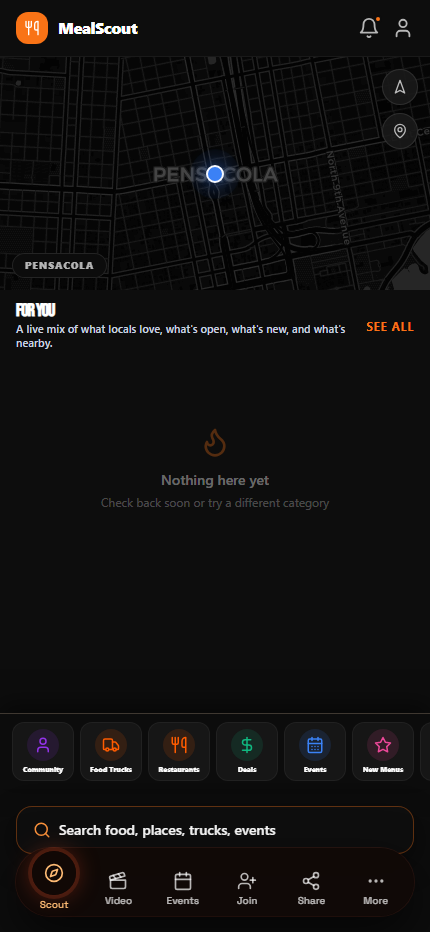
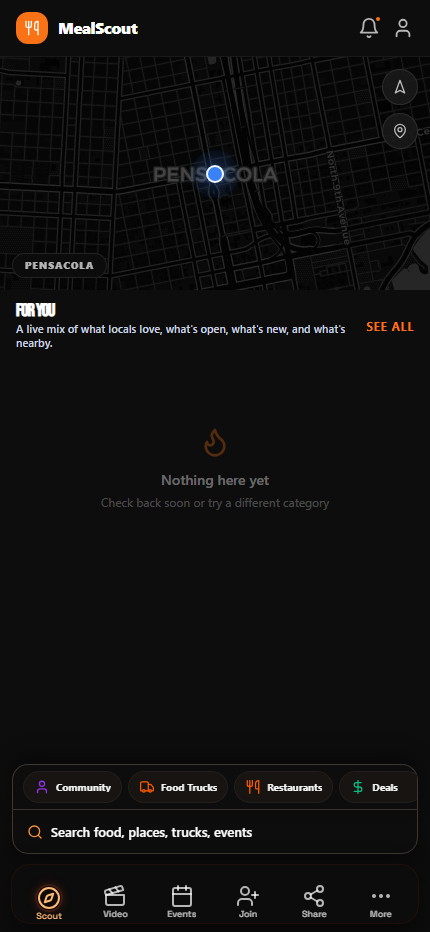
Align scout dock and global nav as one bottom control system

diff --git a/client/src/pages/scout-prototype.tsx b/client/src/pages/scout-prototype.tsx
@@ -219,7 +219,7 @@ export default function ScoutPrototype() {
   const [locationName, setLocationName] = useState("Pensacola");
   const [savedIds, setSavedIds] = useState<Set<string>>(new Set());
   const GLOBAL_NAV_HEIGHT = 78;
-  const SCOUT_SCENE_RAIL_HEIGHT = 48;
+  const SCOUT_SCENE_RAIL_HEIGHT = 50;
   const SCOUT_SEARCH_DOCK_HEIGHT = 46;
   const SCOUT_DOCK_GAP = 6;
   const scoutDockBottom = `calc(env(safe-area-inset-bottom) + ${GLOBAL_NAV_HEIGHT}px)`;
@@ -552,7 +552,7 @@ export default function ScoutPrototype() {
       {/* ── Unified Scout bottom control dock ── */}
       <div className="fixed inset-x-0 z-[1000] pointer-events-none" style={{ bottom: scoutDockBottom }}>
         <div className="mx-auto w-full max-w-[480px] px-3 pointer-events-auto">
-          <div className="rounded-t-2xl border border-b-0 border-white/8 bg-[#0d0d0d]/95 backdrop-blur-xl shadow-[0_-8px_24px_rgba(0,0,0,0.5)]">
+          <div className="rounded-t-2xl border border-b-0 border-white/6 bg-[#0f0d0b]/92 backdrop-blur-2xl shadow-[0_-8px_20px_rgba(0,0,0,0.42)]">
             <div className="flex gap-1.5 overflow-x-auto no-scrollbar px-2.5 py-1.5">
               {EXPLORE_TILES.map(tile => {
                 const count = tileCounts[tile.id as keyof typeof tileCounts] || tile.count;
@@ -560,10 +560,10 @@ export default function ScoutPrototype() {
                   <button
                     key={tile.id}
                     onClick={() => setActiveScene(tile.id)}
-                    className={`shrink-0 inline-flex items-center gap-1.5 rounded-full px-2 py-1 border transition-all duration-200 min-w-[76px] h-8 ${
+                    className={`shrink-0 inline-flex items-center gap-1.5 rounded-full px-2.5 py-1 border transition-all duration-200 min-w-[84px] h-8 ${
                       activeScene === tile.id
-                        ? "bg-[#1e1e1e] border-orange-500/45"
-                        : "bg-[#161616] border-white/5 hover:border-orange-500/20"
+                        ? "bg-[#1f1a15] border-orange-500/35 text-orange-200"
+                        : "bg-[#171412] border-white/5 hover:border-orange-500/18"
                     }`}
                   >
                     <div className="w-4 h-4 flex items-center justify-center shrink-0" style={{ color: tile.color }}>
@@ -579,7 +579,7 @@ export default function ScoutPrototype() {
           <button
             type="button"
             onClick={() => navigate("/search")}
-            className="mt-0 flex h-[46px] w-full items-center gap-2 rounded-b-2xl border border-orange-500/35 bg-[#0f0f0f]/95 px-3.5 text-left text-[13px] font-semibold text-white/88 shadow-[0_10px_30px_rgba(0,0,0,0.45)] backdrop-blur-xl"
+            className="mt-0 flex h-[45px] w-full items-center gap-2 rounded-b-2xl border border-orange-500/22 bg-[#0f0d0b]/92 px-3.5 text-left text-[13px] font-semibold text-white/88 shadow-[0_10px_24px_rgba(0,0,0,0.4)] backdrop-blur-2xl"
             aria-label="Search food, places, trucks, events"
           >
             <Search size={16} className="text-orange-400 shrink-0" />

diff --git a/client/src/components/navigation.tsx b/client/src/components/navigation.tsx
@@ -428,14 +428,14 @@ export default function Navigation({ scope = "local" }: NavigationProps) {
       <nav
         aria-label="Primary navigation"
         className="fixed left-0 right-0 z-[1100] lg:hidden"
-        style={{ bottom: "calc(env(safe-area-inset-bottom) + 0.65rem)" }}
+        style={{ bottom: "calc(env(safe-area-inset-bottom) + 0.55rem)" }}
       >
         <div className="mx-auto max-w-md px-3">
           <div
-            className="relative flex items-end justify-between gap-1 h-[60px] px-1.5 rounded-[20px] bg-[#120805]/74 backdrop-blur-2xl ring-1 ring-white/10"
+            className="relative flex items-end justify-between gap-1 h-[58px] px-1.5 rounded-[18px] bg-[#120805]/72 backdrop-blur-2xl ring-1 ring-white/8"
             style={{
               boxShadow:
-                "0 0 0 1px rgba(255,90,47,0.12), 0 14px 34px rgba(0,0,0,0.62)",
+                "0 0 0 1px rgba(255,90,47,0.09), 0 12px 30px rgba(0,0,0,0.58)",
             }}
           >
             {sixSlotNav.map((item, index) => {
@@ -449,16 +449,16 @@ export default function Navigation({ scope = "local" }: NavigationProps) {
                     href={item.path}
                     aria-label={item.label}
                     aria-current={active ? "page" : undefined}
-                    className={`flex flex-col items-center justify-end gap-0.5 flex-1 min-w-0 h-full transition-colors ${isPrimary ? "pb-0.5" : "pb-1.5"} ${
+                    className={`flex flex-col items-center justify-end gap-0.5 flex-1 min-w-0 h-full transition-colors ${isPrimary ? "pb-0.5" : "pb-1"} ${
                       active ? "text-orange-300" : "text-white/70 hover:text-white"
                     }`}
                   >
                     {isPrimary ? (
                       <span
-                        className="flex h-9 w-9 items-center justify-center rounded-full bg-[#120805]/72 ring-2 ring-orange-500 -mt-3.5"
+                        className="flex h-8.5 w-8.5 items-center justify-center rounded-full bg-[#120805]/70 ring-[1.5px] ring-orange-500/90 -mt-3"
                         style={{
                           boxShadow:
-                            "0 0 0 3px rgba(255,90,47,0.14), 0 0 16px rgba(255,90,47,0.3)",
+                            "0 0 0 2px rgba(255,90,47,0.13), 0 0 12px rgba(255,90,47,0.26)",
                         }}
                         aria-hidden="true"
                       >
@@ -479,7 +479,7 @@ export default function Navigation({ scope = "local" }: NavigationProps) {
                   aria-label={item.label}
                   aria-expanded={moreOpen}
                   onClick={item.onClick}
-                  className={`flex flex-col items-center justify-end gap-0.5 flex-1 min-w-0 h-full pb-1.5 transition-colors ${
+                  className={`flex flex-col items-center justify-end gap-0.5 flex-1 min-w-0 h-full pb-1 transition-colors ${
                     moreOpen ? "text-orange-300" : "text-white/70 hover:text-white"
                   }`}
                 >
